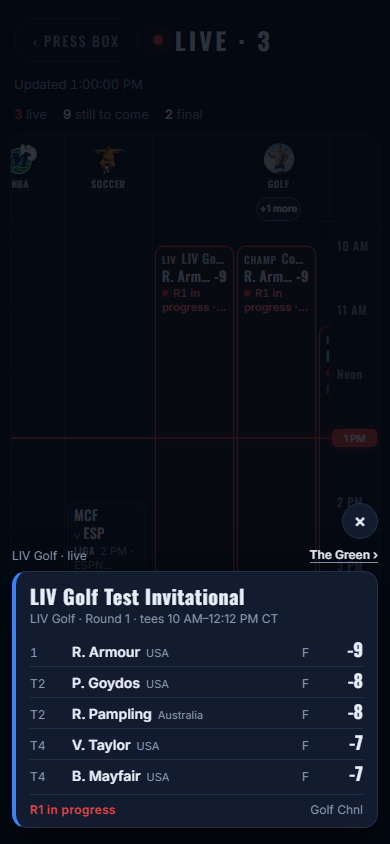
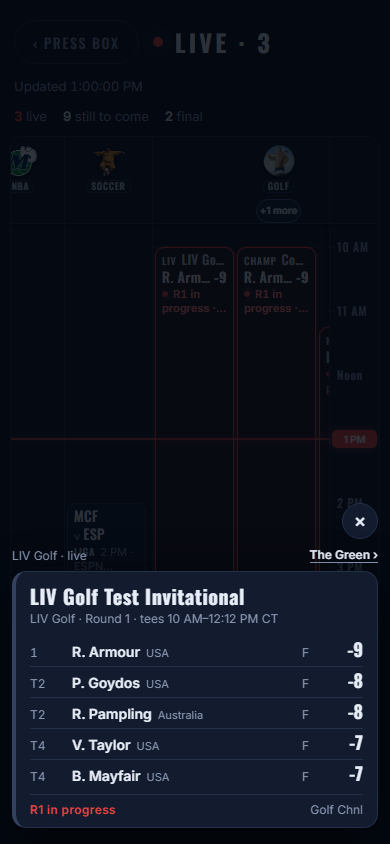
Live v11: neutral edge on the golf sheet, checks 277/277 and 27/27, screenshots, handoff and progress
Claude-Session: https://claude.ai/code/session_01KJ2oHXb4VY3dh3E3qeNskr

diff --git a/live/index.html b/live/index.html
@@ -173,6 +173,7 @@ h2{border-left-color:#33415e}
 .b.gf .m1.tn{font-size:13px;color:#c3cde0}
 .ch .nop{margin-top:3px;font:400 10.5px/1.2 Inter,sans-serif;color:var(--dim);text-align:center}
 .mi .mm small{font-size:12px;margin-left:6px}
+.g.gfc{--c:#33415e}
 .gfc .gt{font:700 20px/1.2 Oswald,sans-serif;letter-spacing:.03em}
 .gfc .gr{margin-top:3px;font-size:12px;color:var(--dim)}
 .gfc .lb{list-style:none;padding:0;margin:10px 0 0;display:grid;gap:2px}

diff --git a/_notes/live-golf-handoff.md b/_notes/live-golf-handoff.md
@@ -1,0 +1,30 @@
+# HANDOFF - Live v11, golf column (job 1009-1847-a28)
+
+Branch live-golf in worktree hub-golf, from origin/main 161008b (Live v10). Not pushed, not merged.
+
+Why golf was missing: the Live page never read golf. Its feed list (LEAGUES) and column list (SPORTS) held only NFL, CFB,
+MLB, NHL, NBA and soccer. The golf live fix of 8 Oct changed only the Press Box tile and The Green.
+
+What changed (live/index.html, plus live/img/golf.webp, the golf tile's picture):
+- Reads the PGA, LPGA, LIV, DP World, Champions and Korn Ferry scoreboards once a minute (never on the 5 second fast poll).
+- Golf column with picture, "Golf" chip, up to three lanes and "+N more" (lists tournaments). With no golf on the day the
+  column stays and its head says "No play today" (if no sport at all has games, the old "No games today" note shows).
+- A tournament card runs from the first tee time of the round played that Central day to the last tee time plus five hours
+  (cut at midnight). Tee times come from each player's round linescore. No tee times for the day: 8 AM to 1 PM tee times assumed (play to 6 PM),
+  and the sheet says "tee times not posted".
+- Card: tour chip and short name, leader (T1 when tied) and score, then status and network: "R3 in progress" (red),
+  "R3 tees 9:35–11:36 PM", "R2 complete", or "Final". Live uses the shared golfNow (third identical copy) and never before the first tee.
+- Tap: sheet with tournament, tour, round, tee window, top five (position, name, country, thru or round score, total), status, network, link to The Green.
+- Version meta Live v11.
+
+How to test:
+- PW_TMP=<empty folder> bun _tests/live-daygrid/test-page.js : 277/277. Cases: today (real feeds, real clock), busy Saturday
+  (also the no-golf fixture), golf (1 PM Friday, Champions and Korn Ferry set in progress, a made-up fourth on LIV, so 3 lanes and +1 more).
+- bun _tests/golf-live/test-golfnow.js : 27/27, now also checks the Live copy of golfNow matches.
+- Screenshots: preview/live-v11-<pc|phone>-<today|golf|busy>.png, plus -golf-sheet, -golf-more, -more, -sheet, stars.
+
+Unsure:
+- The today case runs on the real clock with feeds saved at 18:50 on 9 Oct; its Baycurrent check expects "R3 tees 9:35" so it only holds before 9:35 PM tonight.
+- Japan and other overnight events are drawn only to midnight; the night's tail after midnight is not shown.
+- Thru is counted from holes in the scoreboard; ESPN's scoreboard can lag the leaderboard feed by a minute or two.
+- All golf cards link to The Green home, which follows the PGA Tour; other tours have no page of their own yet.

diff --git a/PROGRESS.md b/PROGRESS.md
@@ -21,3 +21,7 @@ The golf live fix (1f7344b / 7747a5c) changed only the Press Box golf tile and T
   No golf today: the column stays, its head says "No play today".
 - Checks: test-page.js 277/277 (today real feeds, busy Saturday as the no-golf fixture, golf fixture at 1 PM with rounds
   in progress); test-golfnow.js 27/27.
+
+## Stage 3 - checked and handed off
+- Golf sheet card edge made neutral like the others. Checks rerun: 277/277 and 27/27, no console or page errors.
+- Handoff: _notes/live-golf-handoff.md. Old v10 progress kept in _notes/live-vertical-progress.md.
